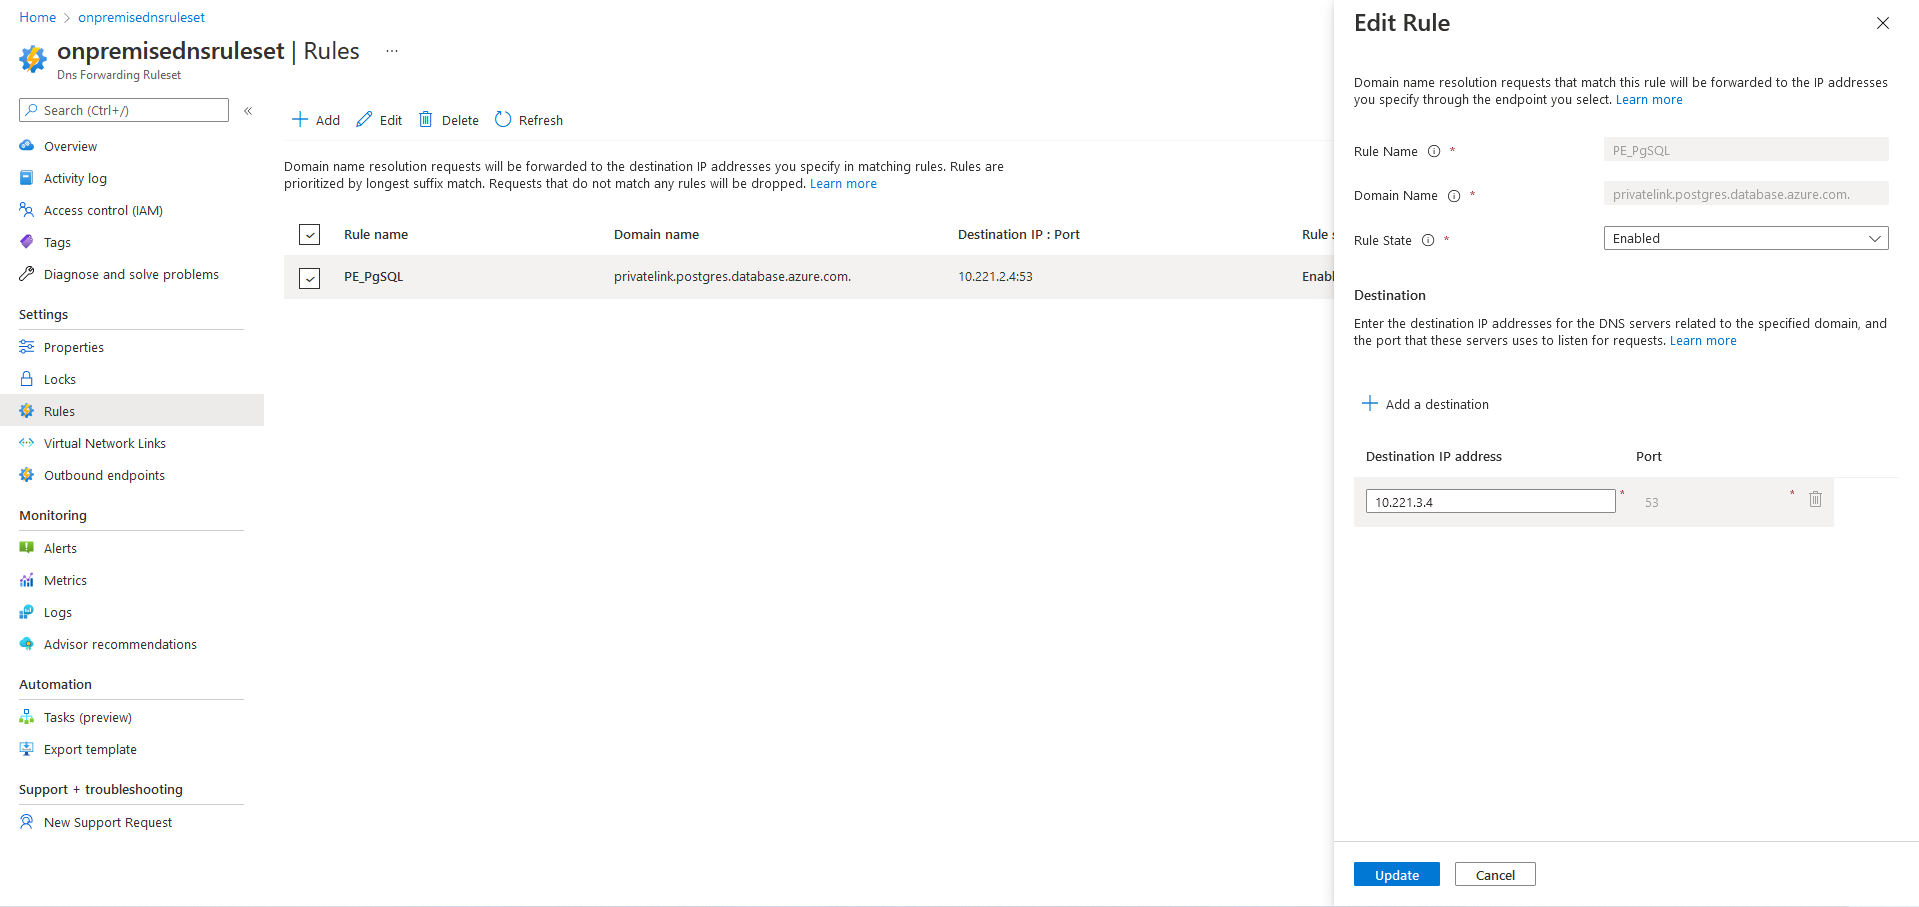
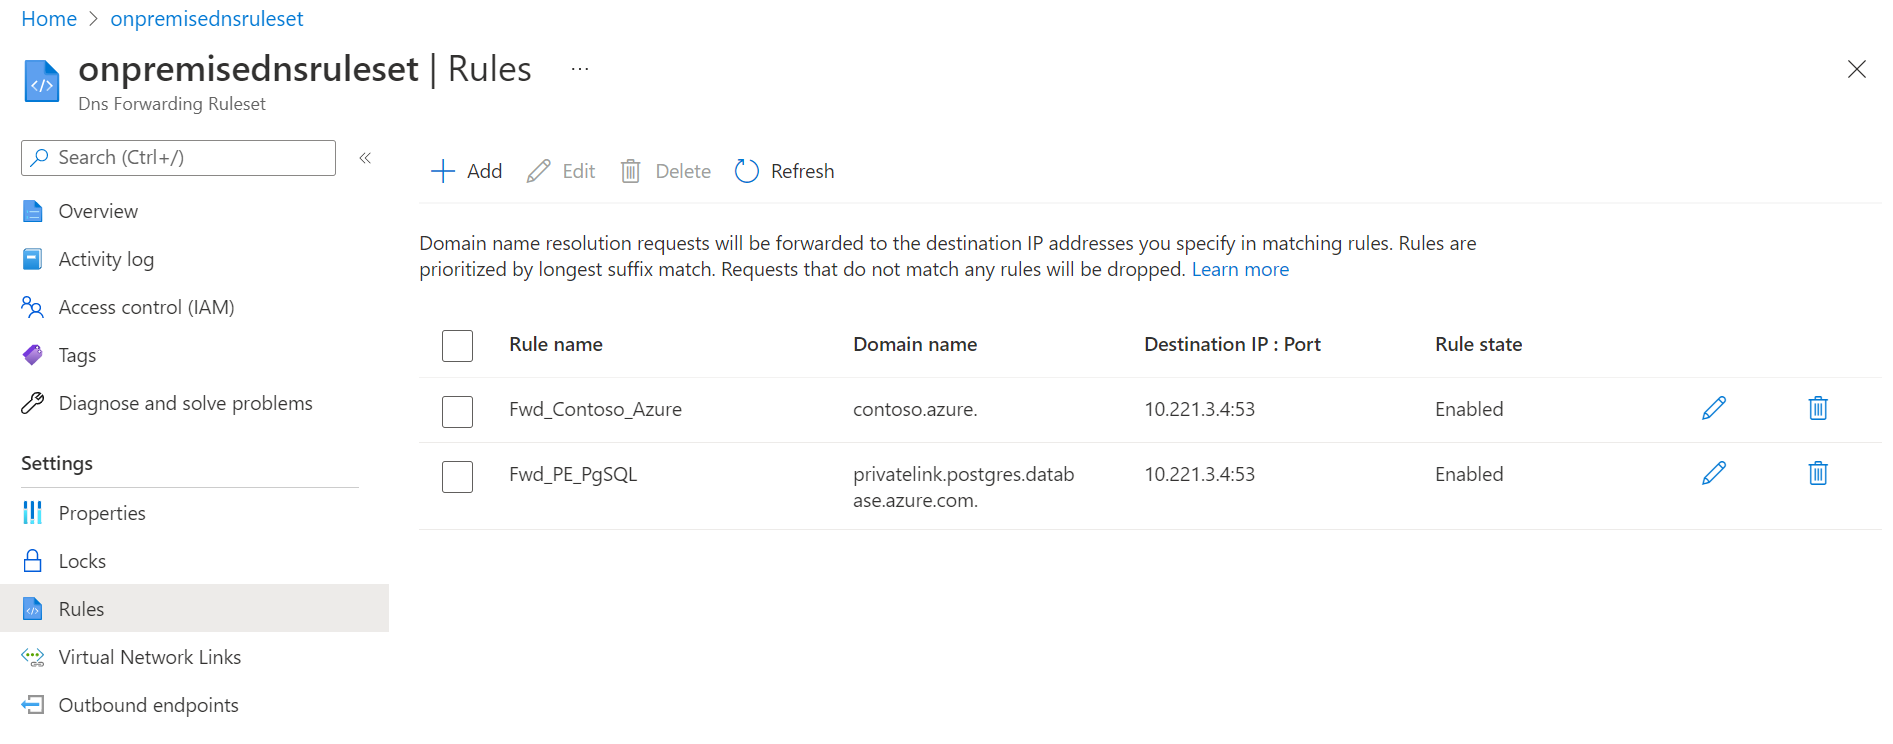
Add the challenge 3 with 2 different options for scenarios

diff --git a/README.md b/README.md
@@ -172,15 +172,60 @@ Let's configure DNS Forwarding Ruleset for both Hub and Onpremise to unlock thes
 
 ![image](images/pgsql-from-onpremise.png)
 
-# Challenge 2: Deploy Azure Firewall to get DNS logs
+
+# Challenge 2: DNS forwarding ruleset on spokes
+
+So far, we configured our spoke vnet DNS settings to point to the Azure DNS inbound IP address directly but there is also a possibility to rely on the DNS Private resolver solution at the spoke level. Let's see how.
+
+## Task 1: Reset the DNS settings on the spoke Vnet
+
+On the terraform template we used to build the whole infrastructure, we set the DNS settings of the hub and the spoke Vnets to point to the IP address `10.221.2.4` which is the Azure DNS inbound IP address (located in the snet-dns-inbound subnet of the hub Vnet).
+
+We will remove this configuration and edit our Vnets so that they will now use the default configuration: Default (Azure-provided). It means that all DNS queries of all Vnets will be send to the Azure Provided DNS IP 168.63.129.16. The default behavior for DNS resolution will be first to look at private DNS zones and DNS Forwarding Rulesets linked to the Vnet.
+
+![image](images/spoke01-vnet-default-dns.png)
+
+> :warning: **Do not forget to restart associated VM(s) to refresh their DNS configuration.**
+
+## Task 2: Attach the forwarding ruleset
+
+Once the default DNS settings is in place, the next step consists in linking the Forwarding Ruleset to the spoke Vnet.
+
+![image](images/dnsforwardingruleset-spoke01-link.png)
+
+
+## Task 3
+
+Let's first go back to our last example to understand the resolution path for a DNS query from on premise to a private endpoint.  
+
+Before starting this challenge #2, DNS servers on the spoke Vnet was pointing to `10.221.2.4` and no Forwarding Ruleset was attached to this Vnet. So far, the DNS resolution path from the spoke-vm to the PostgreSQL instance was the following
+
+![image](images/pgsql_from_azure_v1.png)
+
+Now, once Task 1 and Task 2 are accomplished, we rely on the Azure Provided DNS IP for DNS resolution which will parse DNS private zones and Forwarding Ruleset. We must then reconfigure the Forwarding Ruleset to explicitely give the DNS servers per domain:
+
+![image](images/dnsforwardingruleset-challenge-2.png)
+
+Our design, here, is pretty straightforward as our ruleset consists in sending the DNS queries for **contoso.internal** to the on-premise private DNS resolver and **contoso.azure and privatelink.postgresql.database.azure.com** to the hub private DNS resolver. DNS queries from spoke-vm still works but in a different way. The query path is quite different and the Azure Provided DNS IP become even more central in all DNS resolutions
+
+![image](images/pgsql_from_azure_v2.png)
+
+> Another option could have been to link the spoke Vnet to the privatelink private DNS zone but we recommand to avoid full-mesh links for private DNS zones and to rely on the hub instead.
+
+# Challenge 3: Deploy Azure Firewall to get DNS logs
 
 Azure DNS Private Resolver does not offer today capabilities to view the logs of DNS requests made.
 
 A solution to have these logs is to deploy Azure Firewall and use it as a DNS proxy:
-* Hub & Spokes vnets will have their DNS Servers configured with Private IP address of Azure Firewall
 * Azure Firewall will be configure as DNS Proxy: it will forward all DNS requests to Azure DNS Private Resolver inbound IP address
 
+For DNS settings, the 2 options seen before still apply:
+* **Option a:** Hub & Spokes vnets will have their DNS Servers configured with Private IP address of Azure Firewall
+* **Option b:** Hub & Spokes vnets will have their DNS Servers configured with Default (Azure-provided) and forwarding rules will point to the Private IP address of Azure Firewall
+
 ![image](images/architecture-fw.png)
+
+Only Task 3 will vary depending on the option you choose. 
 
 ## Task 1: Deploy Azure Firewall
 
@@ -190,13 +235,14 @@ In the Azure Portal, deploy a new Azure Firewall instance in the hub-vnet. A sub
 
 Your Azure Firewall instance will take about 10 minutes to deploy. When the deployment completes, go to the new firewall's overview tile and take note of its *private* IP address. 
 
-## Task 2: Configure Azure Firewall DNS proxy
+
+### Task 2: Configure Azure Firewall DNS proxy
 
 Configure Azure Firewall as a DNS Proxy: all requests will be forward to DNS Private Resolver Inbound IP address `10.221.2.4`:
 
-![image](images/azurefirewall-dnsproxy.png)
+![image](images/azurefirewall-dnsproxy-default.png)
 
-## Task 3: Update Hub and spokes Vnet DNS Settings
+## Option a - Task 3: Update Hub and spokes Vnet DNS Settings
 
 Instead of configuring DNS Private Resolver Inbound IP address as DNS Server for hub-vnet and spoke01-vnet, configure with Azure Firewall private IP address:
 
@@ -207,10 +253,34 @@ Instead of configuring DNS Private Resolver Inbound IP address as DNS Server for
 **Restart** hub-vm and spoke01-vm.
 
   > DNS server(s) used by Azure virtual machine (VM) come during VM boot via DHCP. By restarting VMs here, they will pick the new DNS server to use.
+  
+## Option b - Task 3: Update Azure DNS Forwarding Ruleset
 
-## Task 4: Update Onpremise DNS Forwarding Ruleset for postgresql domain
+We must rework the current Forwarding Ruleset so that:
+- All DNS queries (for all domains) from spokes will be sent to the Azure Firewall private IP
+- DNS queries to from the hub *contoso.internal* are sent to `10.233.2.4`
 
-Instead of pointing to DNS Private Resolver Inbound IP address for *\*.postgres.database.azure.com* domain, requests will be forward to Azure Firewall private IP address in the hub:
+Here is this global architecture redesign
+
+![image](images/architecture-fw-and-ruleset.png)
+
+As you can see, we know have 2 different rulesets with different rules: one for the hub and one for the spoke(s).
+
+First, let's remove unnecessary rules from the hub Forwarding Ruleset
+
+![image](images/dnsforwardingruleset-hub-chal-3b.png)
+
+Then, let's link the spoke Forwarding Ruleset (created during setup but not attached to anything so far)
+
+![image](images/dnsforwardingruleset-spoke01-link-chal-3b.png)
+
+And finally, complete the rules of this ruleset
+
+![image](images/dnsforwardingruleset-spoke01-rules-chal-3b.png)
+
+## Task 4: Update Onpremise DNS Forwarding Ruleset
+
+Instead of pointing to DNS Private Resolver Inbound IP address for *\*.postgres.database.azure.com* and *contoso.azure* domains, requests will be forward to Azure Firewall private IP address in the hub:
 
 ![image](images/onpremisednsruleset-azfwhub.png)
 
@@ -261,7 +331,6 @@ AzureDiagnostics
 - Privatelink DNS resolution from on-premise network is still possible (in addition of azure hub&spokes networks) but goes through Azure Firewall:
 
 ![image](images/pgsql-from-onpremise-fw.png)
-
 
 # Finished? Delete your lab
 
